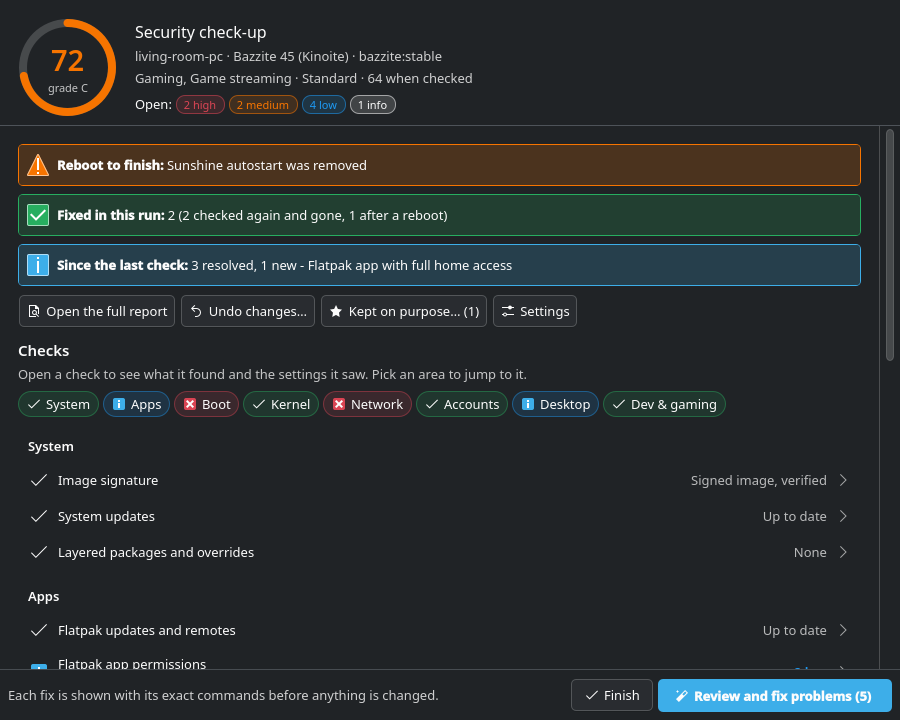
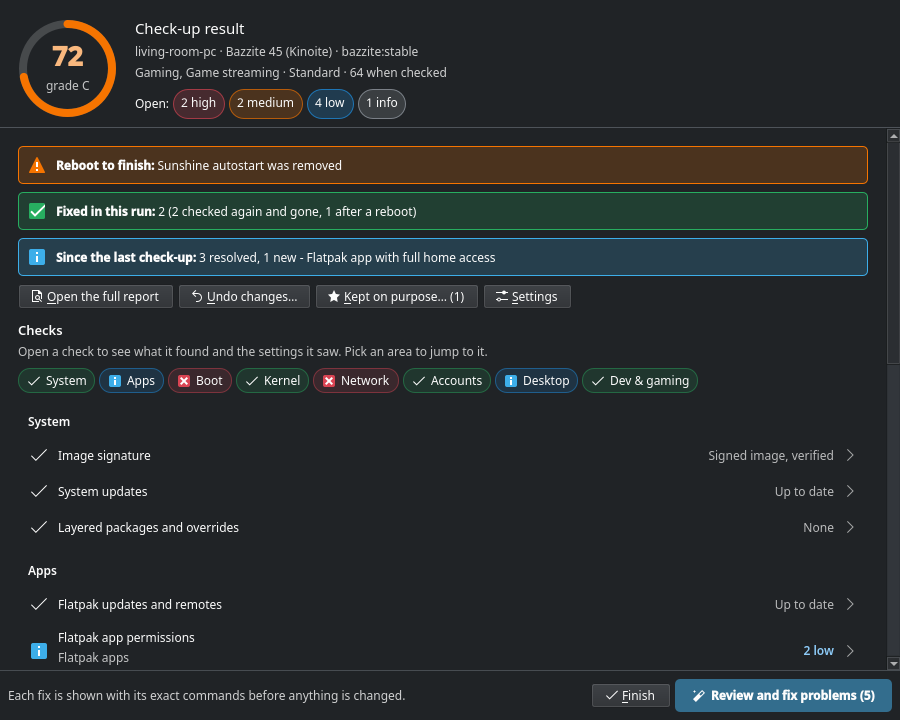
Release 1.6.0, with new README screenshots
- Version 1.6.0: SCRIPT_VERSION, the changelog section and links, the
  README's verify example, the settings sample.
- README screenshots rendered again from the sample data (dark theme) with
  the new `readme` scenario of tests/ui-offscreen.py: the wizard, the
  check-up result and the progress window show the current window, and a
  fix to confirm with its commands is new.
- README and changelog: the layered-packages warning is for a package that
  is really layered.

diff --git a/tests/ui-offscreen.py b/tests/ui-offscreen.py
@@ -3185,6 +3185,37 @@ def sc_contrast():
     send({"quit": True})
 
 
+def sc_readme():
+    """The README's pictures (docs/screenshots), from the sample data in the
+    dark theme where it is installed: the wizard's first step, the check-up
+    result, a fix to confirm, and the progress window holding at 90% during
+    the malware scan (the line ui_progress_set sends for it). Made with
+    --shots DIR readme; without --shots it only checks that each one shows."""
+    S = SAMPLES
+    path = appmod._scheme_path("dark")
+    if path:
+        send({"theme": "dark"})
+        yield W(lambda: (app.property("KDE_COLOR_SCHEME_PATH") or "") == path, "readme: the dark theme is set")
+        yield P(0.3)
+    else:
+        say("     note: the Breeze dark colour scheme is not installed here: the pictures are in the colours as they come")
+    for rid, mode, name in (("r1", "wizard", "wizard"), ("r2", "dashboard", "dashboard-dark"), ("r3", "confirm", "confirm")):
+        if (yield from show(rid, mode, S[mode], "readme: " + mode)):
+            yield P(0.3)
+            shot(name)
+    send({"progress": "start", "heading": "Checking your PC"})
+    yield W(lambda: progress_window() is not None and progress_window().isVisible(), "readme: the progress window shows")
+    pw = progress_window()
+    if pw is not None:
+        send({"progress": "set", "line": "90\t1\tMalware scan (ClamAV)\tThis can take several minutes. The bar moves on when it is done."})
+        yield W(lambda: pw.property("percent") == 90 and pw.property("slow") is True, "readme: the scan holds at 90%")
+        yield P(0.3)
+        shot("progress", pw)
+        send({"progress": "stop"})
+    no_warnings("readme")
+    send({"quit": True})
+
+
 def sc_layout(large):
     """What must fit in the smallest window. LARGE: with a font of 15 pt
     instead of 9 or 10, as for a person who needs large text (the pages are made
@@ -3497,6 +3528,7 @@ SCENARIOS = {
     "variants": (["serve"], lambda: {"busy": ""}, None, sc_variants, after_serve),
     "reveal": (["serve"], lambda: {"busy": ""}, None, sc_reveal, after_serve),
     "contrast": (["serve"], lambda: {"busy": ""}, None, sc_contrast, after_serve),
+    "readme": (["serve"], lambda: {"busy": ""}, None, sc_readme, after_serve),
     "layout": (["serve"], lambda: {"busy": ""}, None, sc_layout(False), after_serve),
     "large-text": (["serve"], lambda: {"busy": ""}, None, sc_layout(True), after_serve),
     "sample-keys": (["serve"], None, None, None, after_sample_keys),

diff --git a/README.md b/README.md
@@ -22,7 +22,7 @@ It is a desktop-friendly counterpart to [ubuntu-sec-audit](https://github.com/se
 
 <p align="center">
   <img src="docs/screenshots/wizard.png" width="49%" alt="The setup wizard">
-  <img src="docs/screenshots/dashboard-dark.png" width="49%" alt="The dashboard after a check-up">
+  <img src="docs/screenshots/dashboard-dark.png" width="49%" alt="The check-up result: the score, what changed, and every check">
 </p>
 
 ## Features
@@ -36,7 +36,8 @@ It is a desktop-friendly counterpart to [ubuntu-sec-audit](https://github.com/se
 - **Optional weekly check.** A report-only background run with a desktop notification.
 
 <p align="center">
-  <img src="docs/screenshots/progress.png" width="60%" alt="The progress window holding at 90% during the malware scan">
+  <img src="docs/screenshots/confirm.png" width="49%" alt="A fix to confirm: the setting now and after, what it affects on this PC, and its exact commands">
+  <img src="docs/screenshots/progress.png" width="49%" alt="The progress window holding at 90% during the malware scan">
 </p>
 
 ## Requirements
@@ -84,7 +85,8 @@ choose to remove it anyway. If a system update ever fails because of the layered
 packages, remove them with `rpm-ostree uninstall python3-pyside6` (and
 `kf6-kirigami`, if it was added too). The check-up's "Layered packages" fix
 can remove them too, and on KDE warns that Security Check then goes back to
-plain KDE dialogs.
+plain KDE dialogs (for a package that is really layered, not a request for
+one the image already has).
 
 The setup wizard, the dashboard, the fixes and Settings are pages of one
 Kirigami (Plasma) window when PySide6 and Kirigami are installed (see
@@ -141,7 +143,7 @@ Fixes that touch a Bazzite feature say so, in the fix list, the "Apply this fix?
 Each [release](https://github.com/secopsxsaiyan/Bazzite_security_check/releases) has the source archive, `SHA256SUMS` and an SSH signature of the checksums. To verify one by hand, with [`release-signers`](release-signers) from this repository:
 
 ```bash
-v=1.5.0
+v=1.6.0
 ssh-keygen -Y verify -f release-signers -I release@bazzite-sec-audit \
   -n bazzite-sec-audit-release -s SHA256SUMS.sig < SHA256SUMS
 sha256sum -c SHA256SUMS

diff --git a/CHANGELOG.md b/CHANGELOG.md
@@ -6,6 +6,8 @@ All notable changes to this project are listed here. The format follows
 
 ## [Unreleased]
 
+## [1.6.0] - 2026-11-21
+
 ### Added
 
 - An off-screen test of the real windows, `make test-ui`
@@ -29,7 +31,12 @@ All notable changes to this project are listed here. The format follows
   them fails, the app stays installed unless "Remove anyway" is chosen,
   and `--uninstall` then ends with status 1. The check-up's fix that
   removes layered packages marks these two as high risk on KDE and says that
-  without them Security Check goes back to plain KDE dialogs.
+  without them Security Check goes back to plain KDE dialogs (only for a
+  package that is really layered: a request for one the image already has
+  changes nothing when removed).
+- `tests/ui-offscreen.py --shots DIR readme` renders the README's
+  screenshots from the sample data, in the dark theme; they show the
+  current window, and a fix to confirm with its commands is new.
 
 ### Changed
 
@@ -458,7 +465,8 @@ First release.
   a symlink in a user's folder. Changes to `sshd` and `sudoers` are
   validated and rolled back if they fail.
 
-[Unreleased]: https://github.com/secopsxsaiyan/Bazzite_security_check/compare/v1.5.0...HEAD
+[Unreleased]: https://github.com/secopsxsaiyan/Bazzite_security_check/compare/v1.6.0...HEAD
+[1.6.0]: https://github.com/secopsxsaiyan/Bazzite_security_check/releases/tag/v1.6.0
 [1.5.0]: https://github.com/secopsxsaiyan/Bazzite_security_check/releases/tag/v1.5.0
 [1.4.0]: https://github.com/secopsxsaiyan/Bazzite_security_check/releases/tag/v1.4.0
 [1.3.0]: https://github.com/secopsxsaiyan/Bazzite_security_check/releases/tag/v1.3.0
